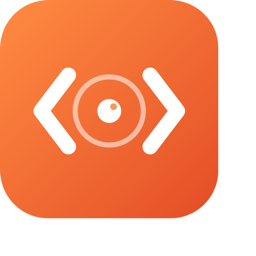
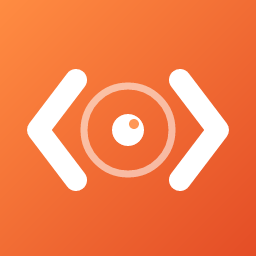
Introduce HTML Previewer 2.0
This is a clean-room rewrite of the HTML preview extension, now officially
named "HTML Previewer 2.0". It modernizes the original concept with a focus on:

-   **Zero dependencies:** No external runtime dependencies for a lighter footprint.
-   **Modern VS Code APIs:** Leveraging current webview capabilities and best practices.
-   **Enhanced live reload:** Previews now reload on disk changes, not just file saves,
    supporting external build tools and templating engines.
-   **Manual refresh:** Dedicated command and UI button to force a preview refresh.
-   **Pinned previews:** Each preview panel is pinned to its source HTML file,
    preventing unintended changes when switching editors.
-   **New UI/UX:** Updated icon, redesigned extension details, and new context menu
    entry in the explorer.

This release significantly upgrades the preview experience, providing a fresh,
lightweight, and robust solution for HTML development.

diff --git a/src/extension.ts b/src/extension.ts
@@ -1,72 +1,112 @@
 import * as vscode from 'vscode';
 import * as path from 'path';
-import * as fs from 'fs';
+
+const VIEW_TYPE = 'htmlPreviewer';
+
+interface PreviewSession {
+  panel: vscode.WebviewPanel;
+  uri: vscode.Uri;
+  watcher: vscode.FileSystemWatcher;
+  saveSub: vscode.Disposable;
+}
+
+const sessions = new Map<string, PreviewSession>();
 
 export function activate(context: vscode.ExtensionContext) {
-  const panels = new Map<string, vscode.WebviewPanel>();
+  context.subscriptions.push(
+    vscode.commands.registerCommand('htmlPreviewer.open', (uri?: vscode.Uri) => openPreview(uri)),
+    vscode.commands.registerCommand('htmlPreviewer.refresh', () => refreshActive())
+  );
+}
 
-  const disposable = vscode.commands.registerCommand('htmlPreview.open', async (uri?: vscode.Uri) => {
-    const targetUri = uri ?? vscode.window.activeTextEditor?.document.uri;
-    if (!targetUri) {
-      vscode.window.showWarningMessage('No HTML file is active.');
-      return;
+async function openPreview(uri?: vscode.Uri): Promise<void> {
+  const targetUri = uri ?? vscode.window.activeTextEditor?.document.uri;
+  if (!targetUri) {
+    vscode.window.showWarningMessage('No HTML file is active.');
+    return;
+  }
+
+  const key = targetUri.toString();
+  const existing = sessions.get(key);
+  if (existing) {
+    existing.panel.reveal(vscode.ViewColumn.Beside, true);
+    await render(existing);
+    return;
+  }
+
+  const fileDir = path.dirname(targetUri.fsPath);
+  const folderUri = vscode.workspace.getWorkspaceFolder(targetUri)?.uri;
+  const localResourceRoots = [vscode.Uri.file(fileDir)];
+  if (folderUri && folderUri.fsPath !== fileDir) {
+    localResourceRoots.push(folderUri);
+  }
+
+  const panel = vscode.window.createWebviewPanel(
+    VIEW_TYPE,
+    `Preview: ${path.basename(targetUri.fsPath)}`,
+    { viewColumn: vscode.ViewColumn.Beside, preserveFocus: true },
+    {
+      enableScripts: true,
+      retainContextWhenHidden: true,
+      localResourceRoots
     }
+  );
 
-    const key = targetUri.toString();
-    const existing = panels.get(key);
-    if (existing) {
-      existing.reveal(vscode.ViewColumn.Beside);
-      return;
+  const watcher = vscode.workspace.createFileSystemWatcher(targetUri.fsPath);
+  const session: PreviewSession = {
+    panel,
+    uri: targetUri,
+    watcher,
+    saveSub: { dispose: () => undefined }
+  };
+
+  session.saveSub = vscode.workspace.onDidSaveTextDocument(doc => {
+    if (doc.uri.toString() === key) {
+      render(session);
     }
-
-    const fileDir = path.dirname(targetUri.fsPath);
-    const folderUri = vscode.workspace.getWorkspaceFolder(targetUri)?.uri;
-    const localResourceRoots = [vscode.Uri.file(fileDir)];
-    if (folderUri && folderUri.fsPath !== fileDir) {
-      localResourceRoots.push(folderUri);
-    }
-
-    const panel = vscode.window.createWebviewPanel(
-      'htmlPreview',
-      `Preview: ${path.basename(targetUri.fsPath)}`,
-      { viewColumn: vscode.ViewColumn.Beside, preserveFocus: true },
-      {
-        enableScripts: true,
-        retainContextWhenHidden: true,
-        localResourceRoots
-      }
-    );
-
-    panels.set(key, panel);
-
-    const render = async () => {
-      try {
-        const bytes = await vscode.workspace.fs.readFile(targetUri);
-        panel.webview.html = buildHtml(bytes.toString(), targetUri, panel.webview);
-      } catch (err) {
-        panel.webview.html = errorHtml(String(err));
-      }
-    };
-
-    await render();
-
-    const watcher = vscode.workspace.createFileSystemWatcher(targetUri.fsPath);
-    watcher.onDidChange(render);
-
-    const docChangeSub = vscode.workspace.onDidSaveTextDocument(doc => {
-      if (doc.uri.toString() === key) {
-        render();
-      }
-    });
-
-    panel.onDidDispose(() => {
-      panels.delete(key);
-      watcher.dispose();
-      docChangeSub.dispose();
-    });
   });
 
-  context.subscriptions.push(disposable);
+  watcher.onDidChange(() => render(session));
+
+  panel.onDidDispose(() => {
+    sessions.delete(key);
+    watcher.dispose();
+    session.saveSub.dispose();
+  });
+
+  sessions.set(key, session);
+  await render(session);
+}
+
+function refreshActive(): void {
+  for (const session of sessions.values()) {
+    if (session.panel.active) {
+      render(session);
+      return;
+    }
+  }
+  // Fallback: if no preview is focused, refresh the one matching the active text editor.
+  const activeUri = vscode.window.activeTextEditor?.document.uri.toString();
+  if (activeUri) {
+    const match = sessions.get(activeUri);
+    if (match) {
+      render(match);
+      return;
+    }
+  }
+  // Last resort: refresh every open preview.
+  for (const session of sessions.values()) {
+    render(session);
+  }
+}
+
+async function render(session: PreviewSession): Promise<void> {
+  try {
+    const bytes = await vscode.workspace.fs.readFile(session.uri);
+    session.panel.webview.html = buildHtml(bytes.toString(), session.uri, session.panel.webview);
+  } catch (err) {
+    session.panel.webview.html = errorHtml(String(err));
+  }
 }
 
 function buildHtml(source: string, fileUri: vscode.Uri, webview: vscode.Webview): string {
@@ -101,4 +141,11 @@ function escapeHtml(s: string): string {
   }[c]!));
 }
 
-export function deactivate() {}
+export function deactivate(): void {
+  for (const session of sessions.values()) {
+    session.watcher.dispose();
+    session.saveSub.dispose();
+    session.panel.dispose();
+  }
+  sessions.clear();
+}

diff --git a/scripts/render-icon.js b/scripts/render-icon.js
@@ -1,0 +1,20 @@
+// One-off script: render icon.svg -> icon.png at 256x256 with proper transparency.
+// Run with: node scripts/render-icon.js
+const fs = require('fs');
+const path = require('path');
+const { Resvg } = require('@resvg/resvg-js');
+
+const svgPath = path.join(__dirname, '..', 'icon.svg');
+const outPath = path.join(__dirname, '..', 'icon.png');
+
+const svg = fs.readFileSync(svgPath, 'utf8');
+
+const resvg = new Resvg(svg, {
+  fitTo: { mode: 'width', value: 256 },
+  background: 'rgba(0,0,0,0)',
+});
+
+const png = resvg.render().asPng();
+fs.writeFileSync(outPath, png);
+
+console.log(`Wrote ${outPath} (${png.length} bytes)`);

diff --git a/README.md b/README.md
@@ -1,54 +1,54 @@
-# HTML Preview
+# HTML Previewer 2.0
 
-> Render any HTML file side-by-side with your code. One click, zero setup.
+> A modern, dependency-free HTML preview for VS Code. One click, live reload, zero config.
 
-Stop alt-tabbing to a browser just to check what your markup looks like. **HTML Preview** adds a single button to the editor title bar of every `.html` file — click it and a live, reload-on-save preview opens in a split view next to your code.
+Click the preview button on any `.html` file and a live, reload-on-save preview opens in a split pane next to your code. No dev server, no configuration, no background processes.
+
+---
+
+## Why "2.0"?
+
+The popular `html-preview-vscode` extension that many developers still use was last touched in **December 2018**. It still works for basic previewing, but it carries 75+ open issues and targets a VS Code engine seven years out of date.
+
+**HTML Previewer 2.0 is a clean-room rewrite** with the goal of doing the core job exceptionally well:
+
+- **Zero runtime dependencies.** No `cheerio`, no `lodash`, no supply-chain surprises — just the VS Code API.
+- **Auto-reload on disk changes** — not just on save. Build tools, static-site generators, and templating watchers trigger updates correctly.
+- **Modern webview APIs.** Uses `asWebviewUri`, scoped `localResourceRoots`, and current preview-focus patterns. The original predates the 2019 webview overhaul.
+- **~120 lines of source.** Auditable, debuggable, no webpack required.
+- **Current engine target** — VS Code 1.75+ (the original requires 1.26, from 2018).
+
+This isn't a fork. It's a rewrite that does roughly the 80% you actually use, in a fraction of the surface area.
 
 ---
 
 ## Features
 
-- **One-click preview** — A button appears in the editor title bar for any HTML file. No commands to memorize.
-- **Live reload on save** — Edit, save, watch it update. No dev server, no extension config.
-- **External-change aware** — Reloads automatically when the file changes on disk (great for generated HTML).
-- **Full asset resolution** — Relative paths to local CSS, JS, images, and fonts render correctly via an injected `<base>` tag.
-- **Side-by-side, focus-preserving** — Preview opens in a column next to your editor without stealing keyboard focus.
-- **Keyboard shortcut** — `Cmd+Shift+V` on macOS, `Ctrl+Shift+V` elsewhere (scoped to HTML files only).
-- **Zero configuration** — Install, open an HTML file, click. That's it.
+- **One-click preview** from the editor title bar
+- **Right-click in the file explorer** → Preview HTML
+- **Live reload on save** and on external file changes (via filesystem watcher)
+- **Pinned to file by default** — each preview tracks the HTML it was opened from, even when you switch editors. No "lock" toggle to remember.
+- **Manual refresh** from the preview title bar or the command palette
+- **Side-by-side, focus-preserving** — preview opens next to your editor without stealing the keyboard
+- **Full asset resolution** for relative CSS, JS, images, and fonts via an injected `<base href>`
+- **Zero configuration** — install, open an HTML file, click
 
 ---
 
 ## Usage
 
-1. Open any `.html` file
-2. Click the **preview icon** in the top-right of the editor tab bar
-3. Edit your HTML and hit save — the preview updates instantly
+Three ways to open a preview:
+1. Open an HTML file → click the **preview icon** in the editor title bar
+2. Right-click an HTML file in the explorer → **Preview HTML**
+3. Press `Cmd+Shift+V` (macOS) / `Ctrl+Shift+V` (Windows/Linux)
 
-You can also invoke it via:
-- **Keyboard:** `Cmd+Shift+V` (macOS) / `Ctrl+Shift+V` (Windows/Linux)
-- **Command Palette:** `HTML Preview: Preview HTML`
+Edit and save — the preview updates immediately. To force a refresh (e.g. for externally generated files cached aggressively), click the refresh icon in the preview's title bar, or run `HTML Previewer: Refresh Preview` from the command palette.
 
----
+### Each preview is pinned to its file
 
-## Why this exists
+When you open a preview from `index.html`, that panel stays pinned to `index.html` even when you switch to editing `styles.css` or another HTML file. To preview a different file, open a second preview from that file — you'll get a second pinned panel.
 
-VS Code's built-in tooling does a lot, but previewing a plain HTML file still means either a third-party live-server extension that wants to spin up a Node process, or copy-pasting the path into a browser. This extension does one thing — render the file in a webview — and does it without configuration, ports, or background processes.
-
----
-
-## How it works
-
-The extension creates a [VS Code Webview](https://code.visualstudio.com/api/extension-guides/webview) pointed at your HTML file's directory. A `<base href="...">` tag is injected into the document head so that relative paths to stylesheets, scripts, and images resolve correctly inside the sandboxed view. A file-system watcher and a save listener keep the preview in sync.
-
-Local resource access is scoped to the file's directory and (if applicable) its workspace folder — nothing outside that tree is loaded.
-
----
-
-## Limitations
-
-- **Webview sandbox** — Some browser APIs are restricted inside VS Code's webview (e.g. top-level navigation, certain storage APIs). For most static HTML, CSS, and vanilla JS this is invisible; for full SPA debugging, use a real browser.
-- **No server-side rendering** — This is a static preview. PHP, server-side includes, and templating engines won't execute.
-- **External URLs** — Remote `<script>` and `<link>` references load normally, subject to webview Content Security Policy.
+This is the opposite of how some preview extensions work, where a single preview pane follows the active editor. Pinning by default avoids the most common preview-extension footgun: you click into a different file to copy something, and your preview vanishes.
 
 ---
 
@@ -58,14 +58,36 @@ Local resource access is scoped to the file's directory and (if applicable) its 
 | --------------- | ------------- | ---------------- |
 | Preview HTML    | `Cmd+Shift+V` | `Ctrl+Shift+V`   |
 
-The shortcut is scoped to HTML files only and will not interfere with the built-in Markdown preview.
+The shortcut is scoped to HTML files only and won't interfere with the built-in Markdown preview.
+
+---
+
+## How it works
+
+The extension creates a [VS Code Webview](https://code.visualstudio.com/api/extension-guides/webview) pointed at your HTML file's directory. A `<base href="...">` tag is injected into the document `<head>` so that relative paths to stylesheets, scripts, and images resolve correctly inside the sandboxed view. A file-system watcher and a save listener keep the preview in sync.
+
+Local resource access is scoped to the file's directory and (if applicable) its workspace folder — nothing outside that tree is loaded.
+
+---
+
+## Limitations
+
+- **Webview sandbox** — Some browser APIs are restricted inside VS Code's webview (top-level navigation, certain storage APIs). For static HTML, CSS, and vanilla JS this is invisible; for full SPA debugging, use a real browser.
+- **No server-side rendering** — Static preview only. PHP, server-side includes, and templating engines won't execute.
+- **External URLs** — Remote `<script>` and `<link>` references load normally, subject to webview Content Security Policy.
 
 ---
 
 ## Release notes
 
-### 0.0.1
-- Initial release: editor title-bar button, live reload on save, watcher-driven external reload, base-href asset resolution.
+### 2.0.0
+- Initial release of HTML Previewer 2.0 — a clean-room rewrite of the original `html-preview-vscode`
+- Editor title-bar button, explorer context-menu entry, command palette
+- Live reload on save AND filesystem change
+- Manual refresh command and title-bar button
+- Pin-by-default preview semantics
+- Zero runtime dependencies
+- Modern VS Code APIs with scoped sandboxing
 
 ---
 